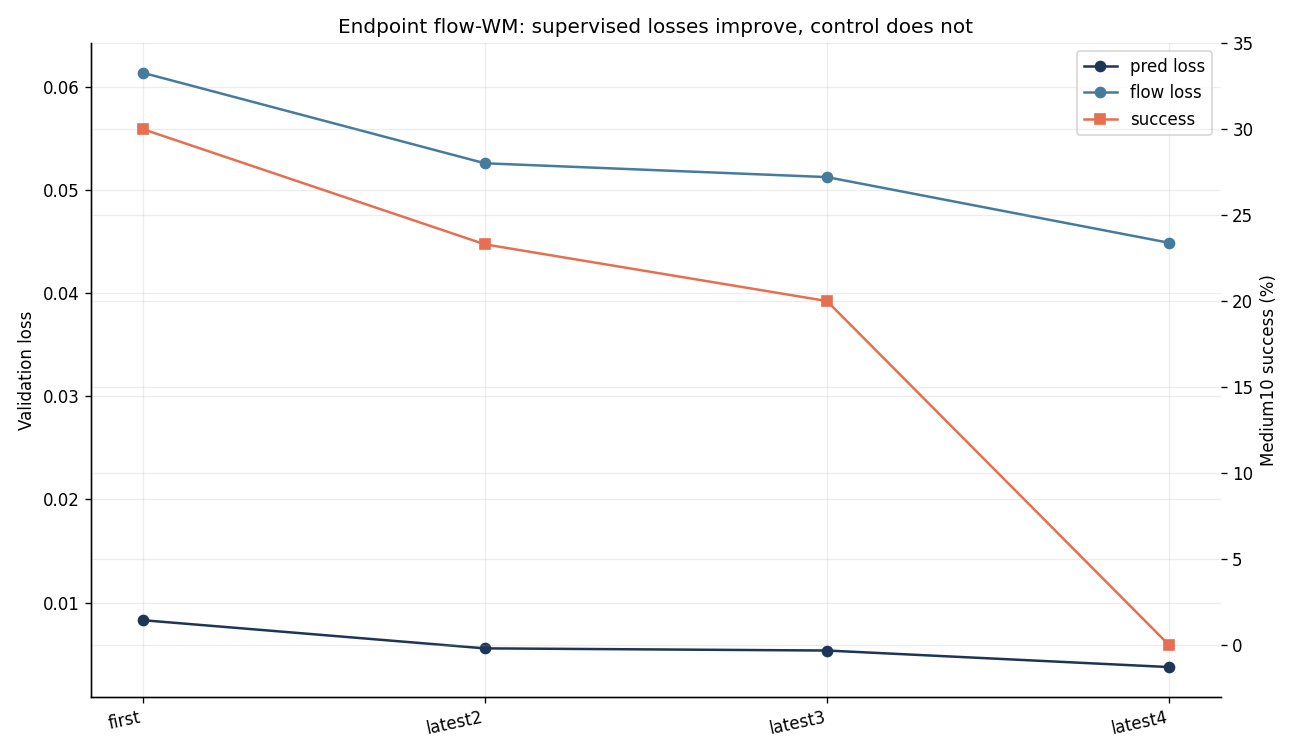
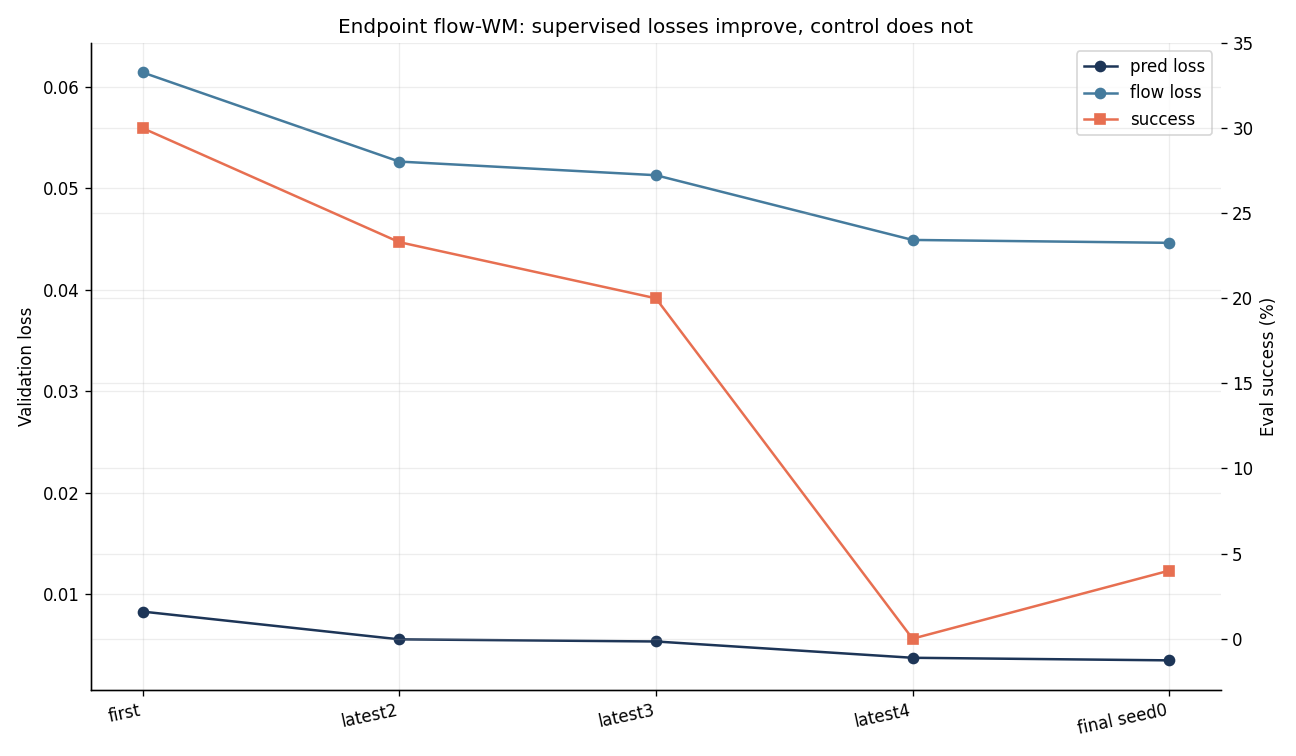
Record endpoint flow final seed0 status

diff --git a/docs/lewm_flow_progress_report_20260610.md b/docs/lewm_flow_progress_report_20260610.md
@@ -1,6 +1,6 @@
 # LeWM Flow-WM Progress Report
 
-Generated: 2026-06-13 EDT
+Generated: 2026-06-15 EDT
 
 Sources:
 
@@ -17,7 +17,7 @@ We are testing whether flow can improve LeWM by replacing the learned world-mode
 
 - Native LeWM + CEM remains the anchor: `87.3 +/- 1.2%` full50 success at `1.31s/episode`.
 - Residual flow-WM is now formally closed: epoch-100 full50 is only `2.0%` mean success, with `validate/pred_loss_epoch ~= 1.25` and `7.97s/episode`.
-- Endpoint flow-WM keeps improving one-step prediction (`0.0083 -> 0.0053 -> 0.0037`), but latest4 control collapses to `0%` medium10 while planner cost ranking gets worse (`mean expert rank 6.77 -> 18.19`).
+- Endpoint flow-WM keeps improving one-step prediction (`0.0083 -> 0.0053 -> 0.0037`), but latest4 control collapses to `0%` medium10 while planner cost ranking gets worse (`mean expert rank 6.77 -> 18.19`). The first epoch-100 final checkpoint, seed 0, also only reaches `4%` full50.
 - Selected-native action-flow is fast (`0.37s/episode`) and fairer than the old epoch-100-confounded action-flow run, but still reaches only `54.7%` full50, far below native CEM.
 
 **Main insight:** the bottleneck is likely not model capacity or insufficient training time. The signal points to an interface mismatch: flow objectives can improve distributional or endpoint prediction, but CEM needs a deterministic, multi-step, action-conditional cost surface that ranks candidate action sequences correctly under closed-loop rollouts.
@@ -39,8 +39,15 @@ Fair comparison boundary: all claims below are PushT-only and use the same LeWM 
 | Endpoint flow-WM + CEM, first | medium10 | 14 / 12 / 12 | `0.0083` | `30.0 +/- 17.3` | `5.47` | Partial one-step repair. |
 | Endpoint flow-WM + CEM, latest3 | medium10 | 34 / 32 / 33 | `0.0053` | `20.0 +/- 10.0` | `7.42` | Lower MSE, no control gain. |
 | Endpoint flow-WM + CEM, latest4 | medium10 | 64 / 56 / 58 | `0.0037` | `0.0 +/- 0.0` | `8.96` | Best MSE, worst control. |
+| Endpoint flow-WM + CEM, final seed 0 | full50 | 100 / - / - | `0.0035` | `4.0` | `6.34` | Partial final; still no recovery. |
 
 -> The useful result is causal direction, not just ranking: native LeWM succeeds when validation prediction and planner cost ranking agree; flow-WM can improve its own losses without producing a robust CEM cost surface.
+
+Current live status as of 2026-06-15 12:15 EDT:
+
+- Endpoint-flow seed 0 reached epoch 100; full50 eval job `9970926` completed at `4.0%`.
+- Endpoint-flow seeds 1 and 2 are running on H100 at epoch 98; supervisors `9971577` and `9974112` will resume or submit final CEM evals after the current chunks finish.
+- Submitted final seed 0 cost-rank diagnostic job `9986072` on A100 to check whether epoch100 planner ranking matches the poor full50 result.
 
 ## Pipeline (w/ Diff)
 
@@ -103,6 +110,7 @@ Evaluation:
 | Residual flow-WM | flow + SIGReg | full50 | `1.2507` | `2.0` | `7.97` | Formal run confirms failure. |
 | Endpoint flow-WM | flow + endpoint + SIGReg | medium10 | `0.0053` | `20.0` | `7.42` | One-step repair, closed-loop plateau. |
 | Endpoint flow-WM latest4 | flow + endpoint + SIGReg | medium10 | `0.0037` | `0.0` | `8.96` | Lower MSE, worse planner ranking and control. |
+| Endpoint flow-WM final seed 0 | flow + endpoint + SIGReg | full50 | `0.0035` | `4.0` | `6.34` | Epoch100 still fails. |
 
 -> This isolates the failure to the WM/planner interface. Residual flow fails before control because CEM needs a point rollout. Endpoint flow makes that point rollout numerically reasonable, but the planner still does not get a reliable action-sequence cost landscape.
 
@@ -116,6 +124,7 @@ Evaluation:
 | Latest2 medium10 | 30 / 28 / 28 | `0.0055` | `0.0526` | `23.3` | rank `5.17` |
 | Latest3 medium10 | 34 / 32 / 33 | `0.0053` | `0.0513` | `20.0` | rank `6.77` |
 | Latest4 medium10 | 64 / 56 / 58 | `0.0037` | `0.0449` | `0.0` | rank `18.19` |
+| Final seed0 full50 | 100 / - / - | `0.0035` | `0.0446` | `4.0` | pending job `9986072` |
 
 -> This is the strongest "do not just train longer" signal. The model becomes better at the supervised endpoint target while planner cost ranking gets worse, so the missing target is not more endpoint MSE; it is planner-relevant multi-step cost calibration.
 
@@ -127,7 +136,7 @@ Evaluation:
 | --- | --- | --- | --- |
 | Native selected vs final seed 0 | pred loss `0.00239 -> 0.31281` | full50 `88% -> 6%` | validation pred loss is meaningful for native checkpoint selection. |
 | Residual flow-WM formal | flow loss `0.0394`, pred loss `1.2507` | full50 `2%` | flow loss alone is misleading. |
-| Endpoint flow-WM | pred loss `0.0083 -> 0.0037` | medium10 `30% -> 0%` | one-step endpoint MSE is not enough. |
+| Endpoint flow-WM | pred loss `0.0083 -> 0.0035` | medium10 `30% -> 0%`; final seed0 full50 `4%` | one-step endpoint MSE is not enough. |
 | Endpoint latest3 -> latest4 | cost rank `6.77 -> 18.19` | medium10 `20% -> 0%` | planner ranking regresses while MSE improves. |
 
 -> Prediction loss is useful only when it matches the planner interface. For native LeWM it does; for flow-WM it becomes a weak proxy. The next metric should measure whether the WM ranks CEM candidate rollouts the same way the real environment would, not only whether the next latent is close.
@@ -148,6 +157,7 @@ Lower expert rank is better. Rank `1` means expert action chunks are scored best
 | Endpoint latest2 mean | `5.17` | `0.0322` | medium10 `23.3%` |
 | Endpoint latest3 mean | `6.77` | `0.0449` | medium10 `20.0%` |
 | Endpoint latest4 mean | `18.19` | `0.1336` | medium10 `0.0%` |
+| Endpoint final seed0 e100 | pending | pending | full50 seed0 `4.0%` |
 
 -> Cost ranking separates native/residual cleanly and now gives a strong negative endpoint signal: latest4 has the best endpoint MSE but the worst endpoint cost rank. Expert-vs-random ranking is still an imperfect diagnostic, but this regression is enough to stop treating endpoint MSE as a useful standalone objective.
 
@@ -163,6 +173,7 @@ Lower expert rank is better. Rank `1` means expert action chunks are scored best
 | Residual flow-WM formal | n/a | `7.97` | `2.0` | dominated |
 | Endpoint flow-WM latest3 | `46.3` | `7.42` | `20.0` | dominated |
 | Endpoint flow-WM latest4 | n/a | `8.96` | `0.0` | worse with more training |
+| Endpoint flow-WM final seed0 | n/a | `6.34` | `4.0` | no final recovery |
 
 -> Runtime is a research constraint, not just engineering overhead. Since CEM calls the WM many times per control step, a flow-WM must either deliver a large success gain or expose useful uncertainty to the planner. The current version does neither, so it is Pareto-dominated.
 
@@ -212,3 +223,5 @@ Caveat:
 - Latest3 cost-rank jobs wrote local metrics under the default diagnostic variant path (`wm_flow_endpoint_policy_original/seed_x/eval`) because the diagnostic sbatch did not pass `experiment.variant`; W&B summaries and Slurm logs match the values reported above.
 - This was fixed before latest4 cost-rank diagnostics, which now write to explicit latest4 variant paths.
 - Latest4 endpoint medium10 evals were resubmitted with the correct `EVAL_BUDGET=50`; all three seeds completed at `0.0%` success.
+- On 2026-06-15, endpoint seed 0 reached epoch 100 and its full50 eval completed at `4.0%`; seeds 1/2 are still running at epoch 98, so the formal epoch100 mean is not complete yet.
+- Final seed 0 cost-rank diagnostic job `9986072` is queued on A100/embers under variant `cost_rank_flow_endpoint_final_e100_s0_a100`.

diff --git a/docs/flow_2x2_status.md b/docs/flow_2x2_status.md
@@ -1311,3 +1311,32 @@ Latest queue check:
   - Current queue:
     - Endpoint-flow seeds 0/1/2 continue training under the supervisor resume loop.
     - Latest4 budget-fixed medium10 evals are pending on H100 resources, with no immediate failure.
+
+- PushT monitoring and follow-up, 2026-06-15 12:15 EDT:
+  - Latest4 budget-fixed endpoint medium10 evals completed after the 2026-06-13 report update:
+    | Seed | Epoch | Eval job | Success rate | Eval time |
+    | ---: | ---: | ---: | ---: | ---: |
+    | 0 | 64 | `9916205` | `0.0%` | `89.40s` |
+    | 1 | 56 | `9916206` | `0.0%` | `91.25s` |
+    | 2 | 58 | `9916207` | `0.0%` | `88.07s` |
+    - Mean success is `0.0%`; mean eval time is `89.57s` (`8.96s/episode`).
+    - Interpretation: latest4 confirms that lower endpoint prediction MSE does not recover closed-loop control.
+  - Endpoint-flow seed 0 reached epoch 100:
+    | Seed | Checkpoint | Latest validation row | `validate/pred_loss_epoch` | `validate/flow_loss_epoch` | Full50 eval job | Success rate | Eval time |
+    | ---: | --- | ---: | ---: | ---: | ---: | ---: | ---: |
+    | 0 | `weights_epoch_100.pt` | 99 | `0.003478` | `0.044631` | `9970926` | `4.0%` | `317.19s` |
+    - This is a partial final result only; seeds 1 and 2 have not completed epoch 100 yet.
+  - Endpoint-flow seeds 1 and 2 are still progressing under the resume loop:
+    | Seed | Current running job | Latest checkpoint | Latest validation row | `validate/pred_loss_epoch` | `validate/flow_loss_epoch` | Supervisor |
+    | ---: | ---: | ---: | ---: | ---: | ---: | ---: |
+    | 1 | `9971575` | 98 | 98 | `0.002803` | `0.032686` | `9971577` |
+    | 2 | `9974111` | 98 | 98 | `0.002605` | `0.047600` | `9974112` |
+    - Both jobs are on H100/embers. Their supervisors should either resume if the current chunks time out/preempt, or submit final CEM evals after `weights_epoch_100.pt` appears.
+  - Submitted final seed 0 cost-rank diagnostic:
+    - Job `9986072`, variant `cost_rank_flow_endpoint_final_e100_s0_a100`, A100/embers.
+    - Record: `/storage/project/r-agarg35-0/eliu354/external_data/lewm_stablewm/experiments/pusht_cost_diagnostics_20260609/job_records/final_endpoint_cost_rank_20260615_121454.tsv`.
+  - Updated progress report:
+    - `docs/lewm_flow_progress_report_20260610.md`
+    - `docs/assets/lewm_flow_progress_20260611/lewm_story_key_results.csv`
+    - `docs/assets/lewm_flow_progress_20260611/lewm_cost_rank_summary.csv`
+    - Regenerated report figures under `docs/assets/lewm_flow_progress_20260611/`.
